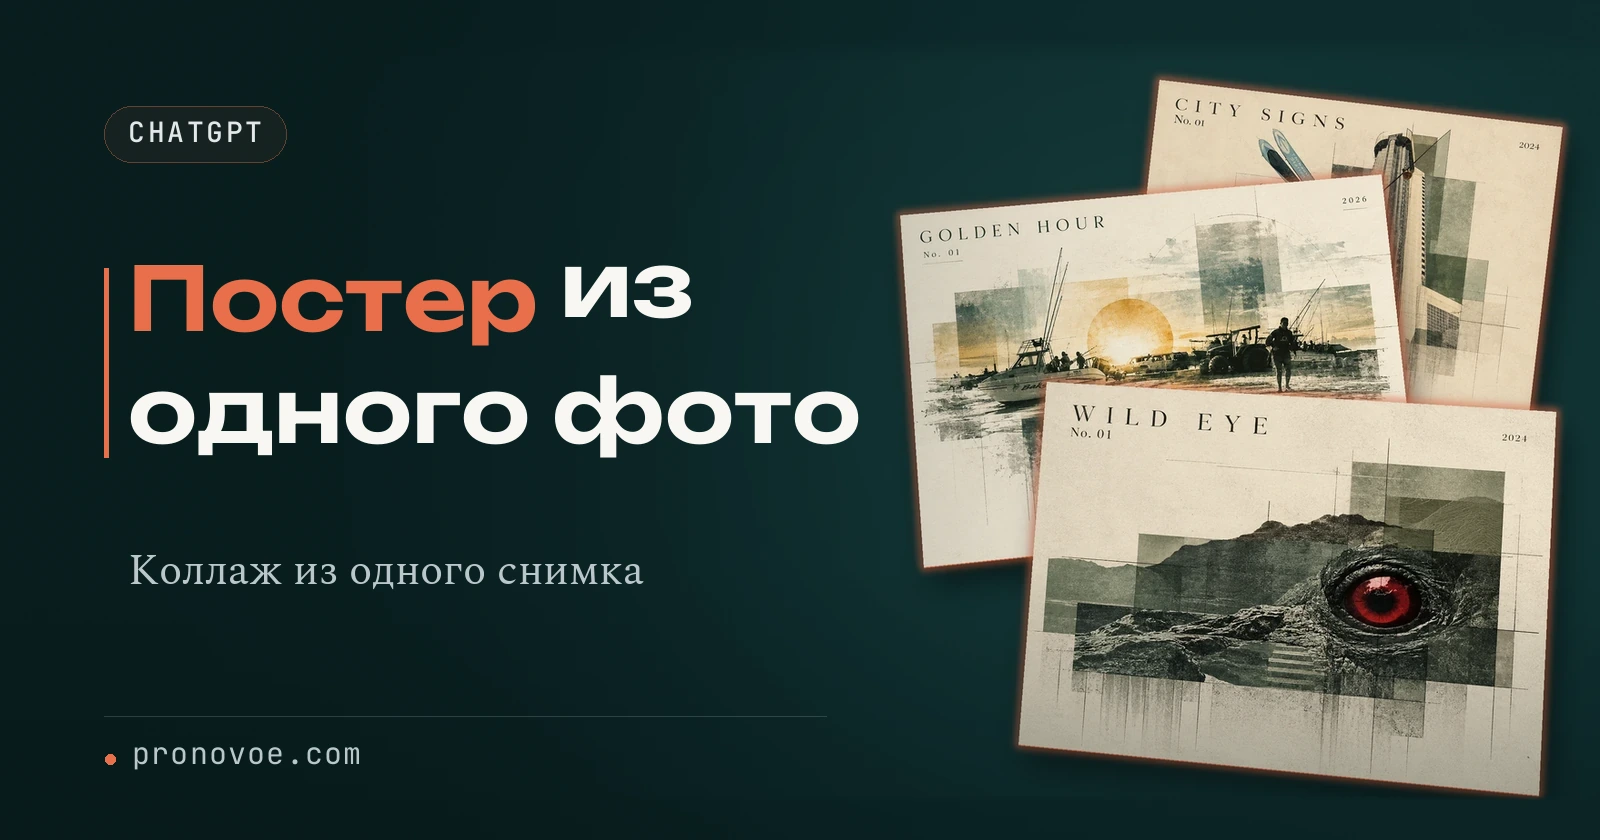
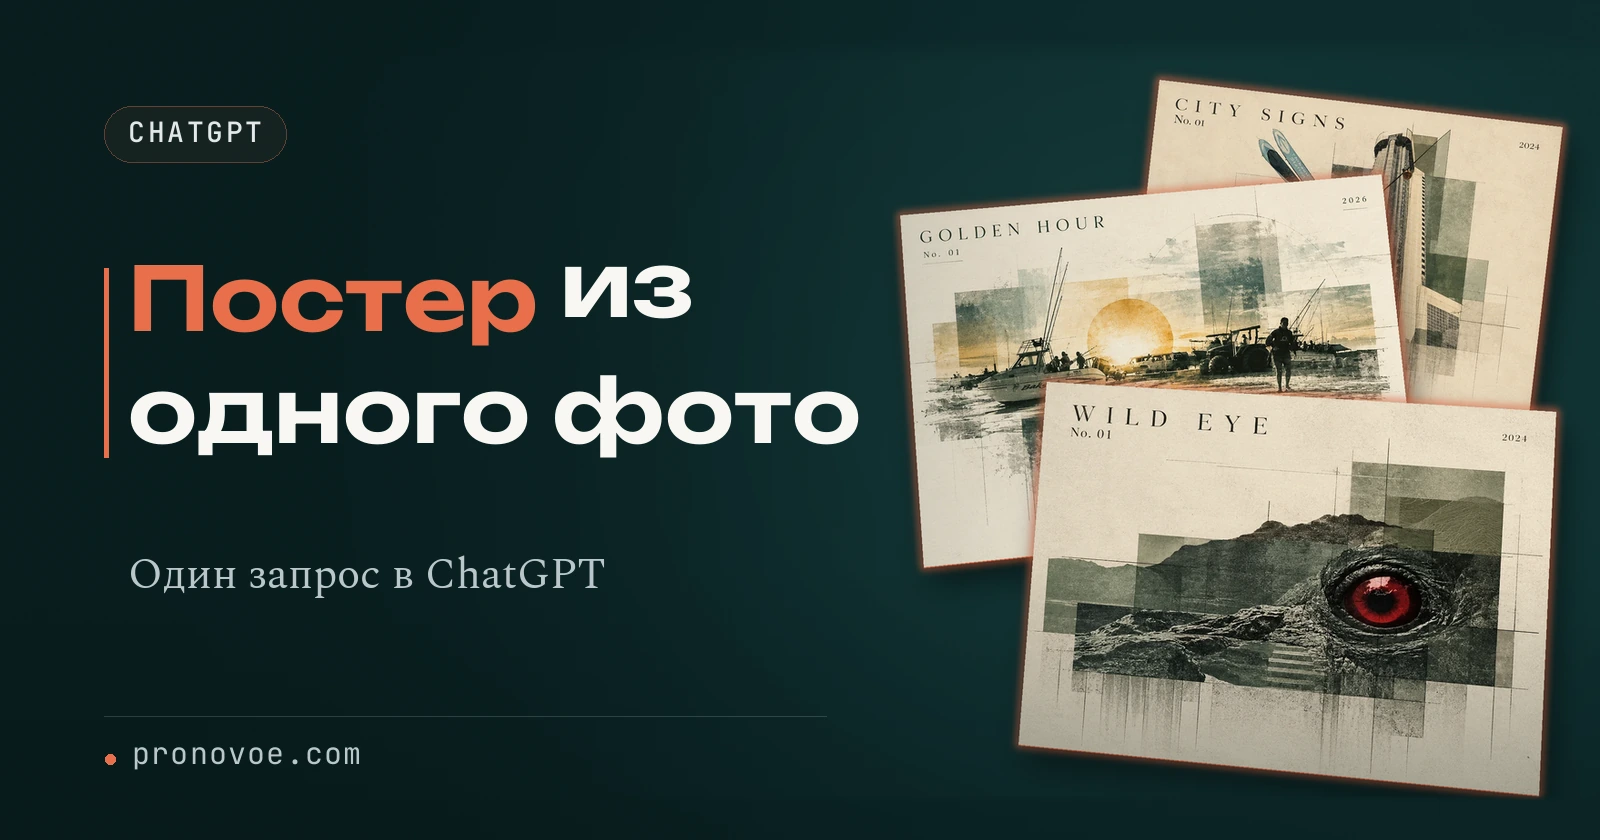
Постер из одного фото: без «коллажа» в заголовках - обложка «Один запрос в ChatGPT», карточка и подпись про постер

Changed region(s): [[0.0625, 0.65, 0.4062, 0.7119]]

diff --git a/index.html b/index.html
@@ -409,7 +409,7 @@
       <div class="track">
         <div class="guides">
           <a class="guide-link" data-tags="kartinki green" data-metki="video besplatno" data-kod="РОЛИК" data-poisk="Видео из текста: бесплатные сервисы и подвохи видео из текста бесплатные видеосервисы Fliki Steve AI ZSKY AI Видео Бесплатные сервисы" aria-label="Видео из текста: бесплатные сервисы и подвохи" href="claude-ai/besplatnye-video-iz-teksta/"><img class="guide-cover" src="claude-ai/besplatnye-video-iz-teksta/assets/oblozhka.webp" alt="Видео из текста: бесплатные сервисы и подвохи. Ноутбук с настоящей титульной сценой ролика Steve AI о резервной копии как пример видео из текста" width="1600" height="840" loading="lazy" decoding="async"><span class="guide-body"><span class="guide-summary">Шесть сервисов: какой даст скачать готовый ролик?</span><span class="guide-meta"><span class="guide-level green"><span class="track-dot green" aria-hidden="true"></span>Начальный уровень</span><span class="kind kind-obzor">Обзор</span></span></span></a>
-          <a class="guide-link" data-tags="gpt green" data-metki="chatgpt kartinki" data-kod="ПОСТЕР" data-poisk="Постеры из одной фотографии в ChatGPT постер из фотографии генерация изображений ChatGPT промпт для постера ChatGPT Картинки" aria-label="Постеры из одной фотографии в ChatGPT" href="claude-ai/postery-iz-odnogo-foto/"><img class="guide-cover" src="claude-ai/postery-iz-odnogo-foto/assets/oblozhka.webp" alt="Постеры из одной фотографии в ChatGPT. Три настоящих постера из статьи: город, лодки на рассвете и крупный красный глаз" width="1600" height="840" loading="lazy" decoding="async"><span class="guide-body"><span class="guide-tools">ChatGPT (чат)</span><span class="guide-summary">Свой снимок в духе журнального коллажа</span><span class="guide-meta"><span class="guide-level green"><span class="track-dot green" aria-hidden="true"></span>Начальный уровень</span><span class="kind kind-instr">Инструкция</span></span></span></a>
+          <a class="guide-link" data-tags="gpt green" data-metki="chatgpt kartinki" data-kod="ПОСТЕР" data-poisk="Постеры из одной фотографии в ChatGPT постер из фотографии генерация изображений ChatGPT промпт для постера ChatGPT Картинки" aria-label="Постеры из одной фотографии в ChatGPT" href="claude-ai/postery-iz-odnogo-foto/"><img class="guide-cover" src="claude-ai/postery-iz-odnogo-foto/assets/oblozhka.webp" alt="Постеры из одной фотографии в ChatGPT. Три настоящих постера из статьи: город, лодки на рассвете и крупный красный глаз" width="1600" height="840" loading="lazy" decoding="async"><span class="guide-body"><span class="guide-tools">ChatGPT (чат)</span><span class="guide-summary">Твоё фото сверху, рисованная сцена снизу - готово за один запрос</span><span class="guide-meta"><span class="guide-level green"><span class="track-dot green" aria-hidden="true"></span>Начальный уровень</span><span class="kind kind-instr">Инструкция</span></span></span></a>
           <a class="guide-link" data-tags="chatgpt image green" data-metki="chatgpt kartinki" data-kod="ФОТО" data-poisk="Как скопировать стиль любого фото в ChatGPT стиль фото в ChatGPT JSON по фото перенос стиля фото ChatGPT Картинки" aria-label="Как скопировать стиль любого фото в ChatGPT" href="claude-ai/kopirovat-stil-foto-v-chatgpt/"><img class="guide-cover" src="claude-ai/kopirovat-stil-foto-v-chatgpt/assets/oblozhka.webp" alt="Как скопировать стиль любого фото в ChatGPT. Исходный портрет мужчины и два его результата с перенесённым фотографическим стилем в ChatGPT" width="1600" height="840" loading="lazy" decoding="async"><span class="guide-body"><span class="guide-tools">ChatGPT (чат)</span><span class="guide-summary">Свет и цвета чужого кадра на своём фото</span><span class="guide-meta"><span class="guide-level green"><span class="track-dot green" aria-hidden="true"></span>Начальный уровень</span><span class="kind kind-instr">Инструкция</span></span></span></a>
           <a class="guide-link" data-tags="chatgpt codex blue" data-metki="chatgpt codex claude-code kartinki video" data-kod="МОУШЕН" data-poisk="Как сделать движущиеся слайды в карусели анимированная карусель видео-слайды motion-карусель ChatGPT Codex Claude Code Картинки Видео" aria-label="Как сделать движущиеся слайды в карусели" href="claude-ai/animirovannaya-karusel/"><img class="guide-cover" src="claude-ai/animirovannaya-karusel/assets/oblozhka.webp" alt="Как сделать движущиеся слайды в карусели. Три реальные фазы слайда: светлая плашка, оранжевое нажатие с уменьшением, возврат к светлой" width="1600" height="840" loading="lazy" decoding="async"><span class="guide-body"><span class="guide-tools">Claude Code (код) · ChatGPT (чат) · Codex (код)</span><span class="guide-summary">Каждый слайд становится коротким видео с плавным стыком</span><span class="guide-meta"><span class="guide-level blue"><span class="track-dot blue" aria-hidden="true"></span>Средний уровень</span><span class="kind kind-instr">Инструкция</span></span></span></a>
         </div>

diff --git a/claude-ai/postery-iz-odnogo-foto/index.html b/claude-ai/postery-iz-odnogo-foto/index.html
@@ -204,7 +204,7 @@
       <a href="#prompt">Теперь забери полный запрос для своего фото</a>
     </nav></details>
     <article>
-      <header id="nachalo"><p class="eyebrow">ПОСТЕР / один снимок</p><figure class="cover cover-v2"><img src="assets/oblozhka.webp" width="1600" height="840" alt="Три настоящих постера из статьи: город, лодки на рассвете и крупный красный глаз" loading="eager" decoding="async" fetchpriority="high"><figcaption>Выбор снимка, примеры коллажей и полный запрос на русском и английском</figcaption></figure>
+      <header id="nachalo"><p class="eyebrow">ПОСТЕР / один снимок</p><figure class="cover cover-v2"><img src="assets/oblozhka.webp" width="1600" height="840" alt="Три настоящих постера из статьи: город, лодки на рассвете и крупный красный глаз" loading="eager" decoding="async" fetchpriority="high"><figcaption>Выбор снимка, примеры готовых постеров и полный запрос на русском и английском</figcaption></figure>
 <h1 class="article-title-v2">Как сделать постер из одного фото без опыта в дизайне?</h1>
 <p class="uroven-metka green" style="display:inline-block;margin:16px 0 0;padding:5px 12px;border-radius:999px;background:#E4F1E8;color:#2F7448;font:700 13px/1.3 -apple-system,BlinkMacSystemFont,&quot;Segoe UI&quot;,Arial,sans-serif">Начальный уровень</p>
 
